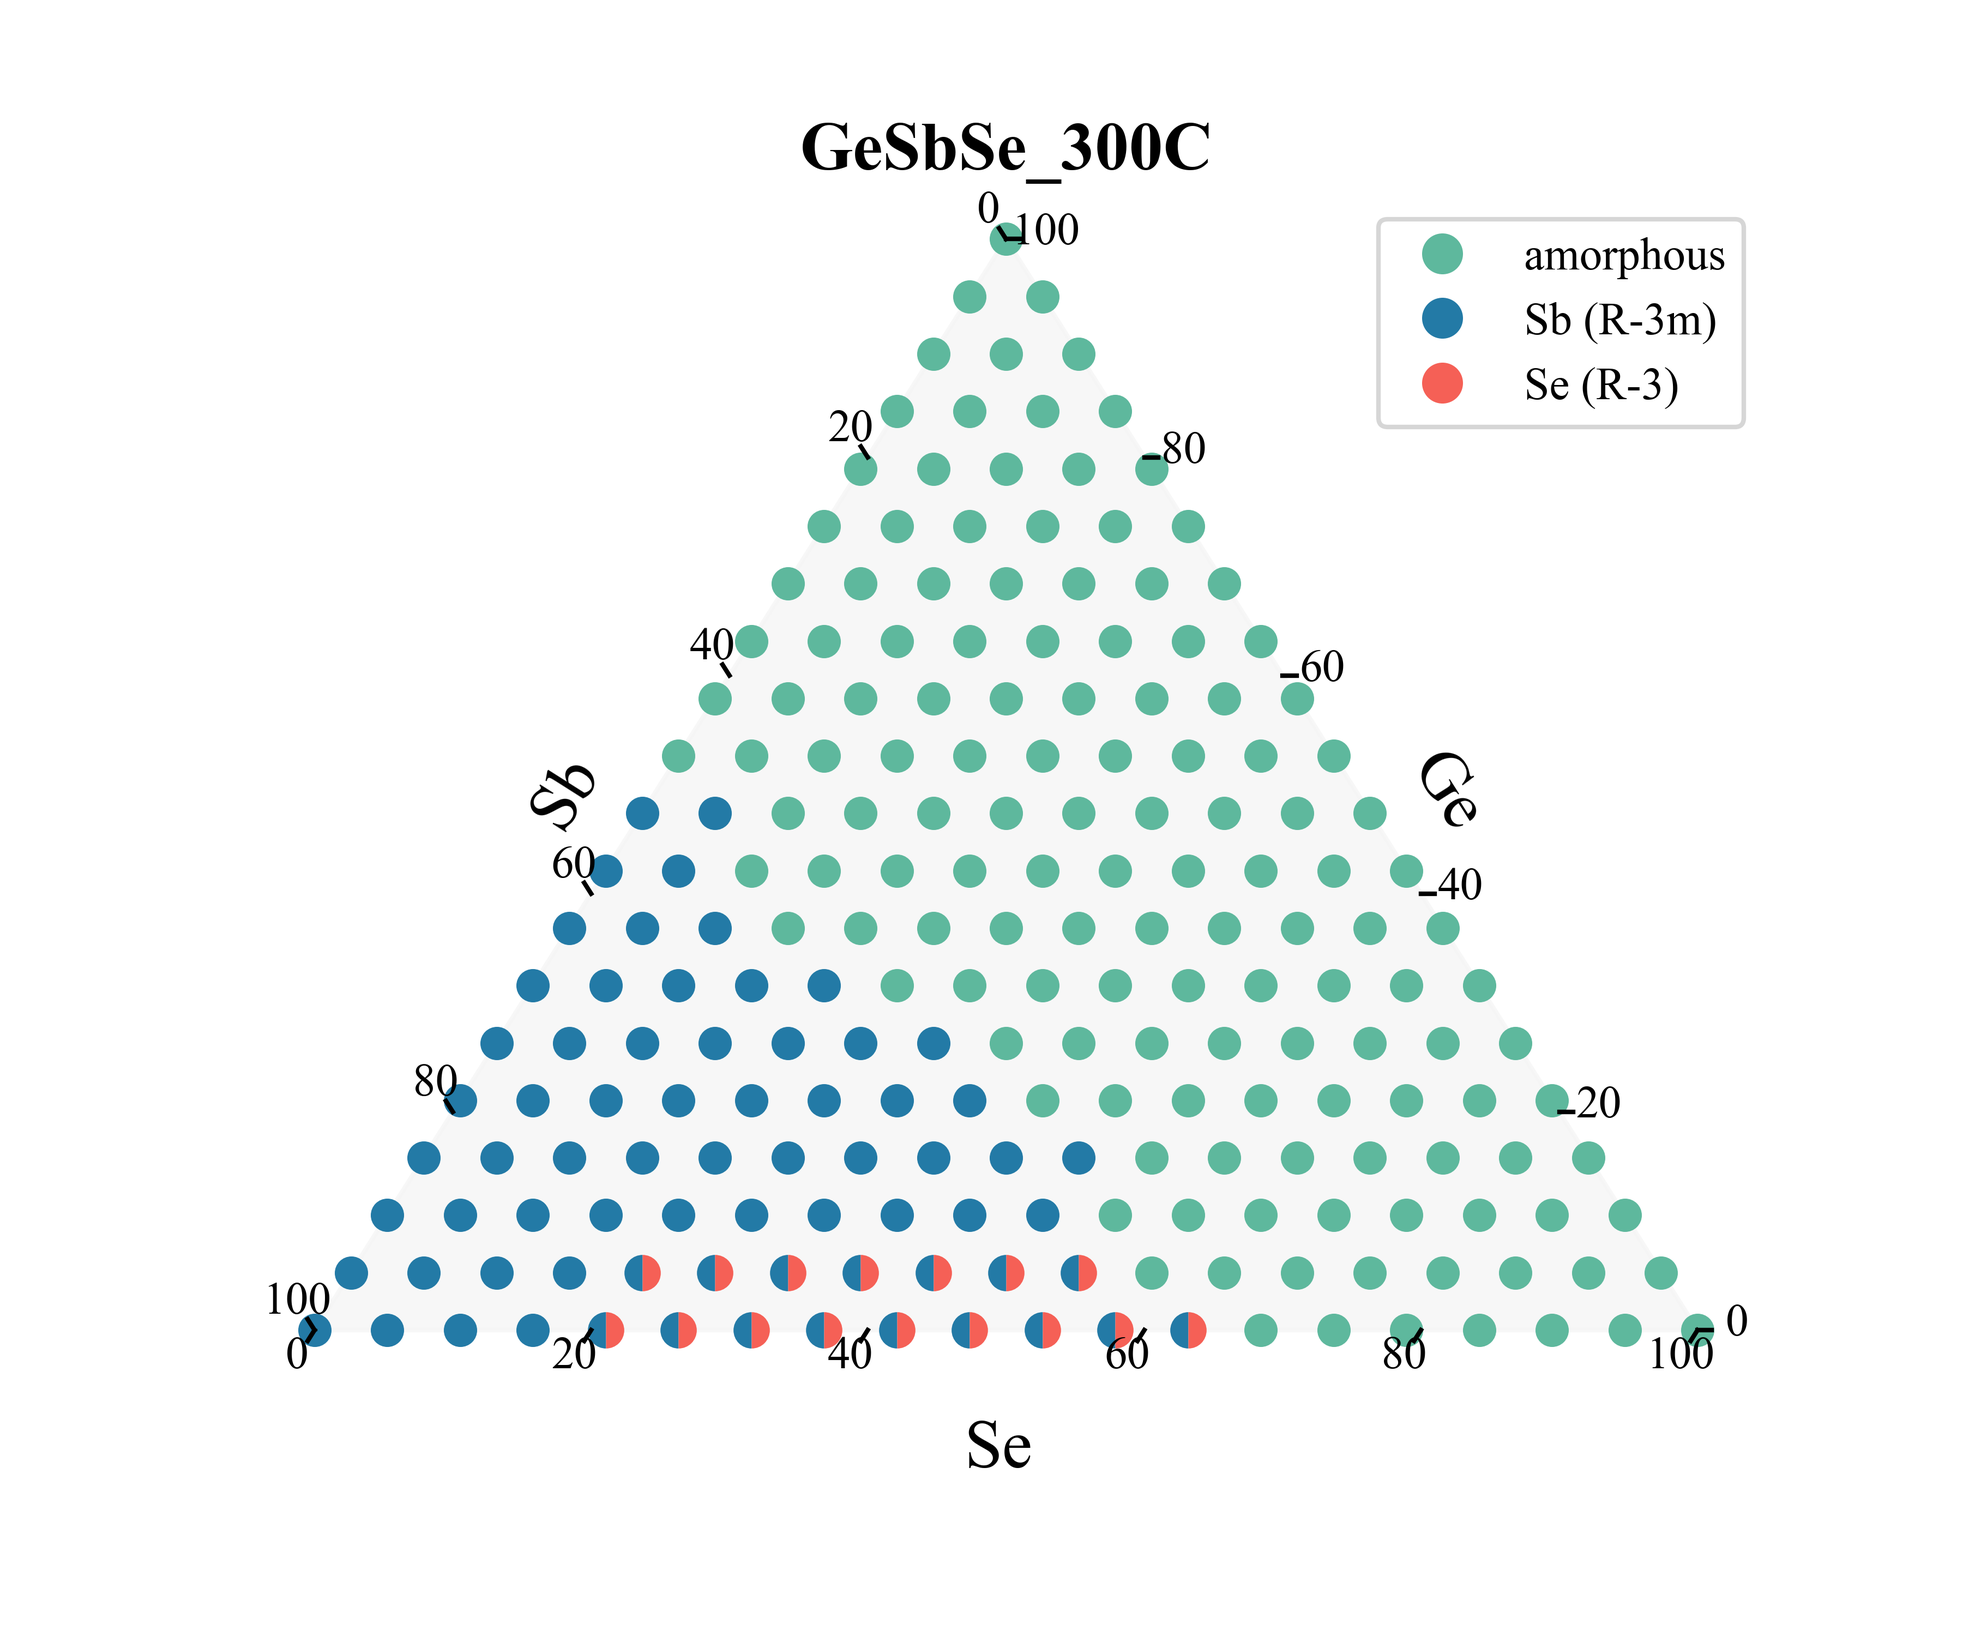
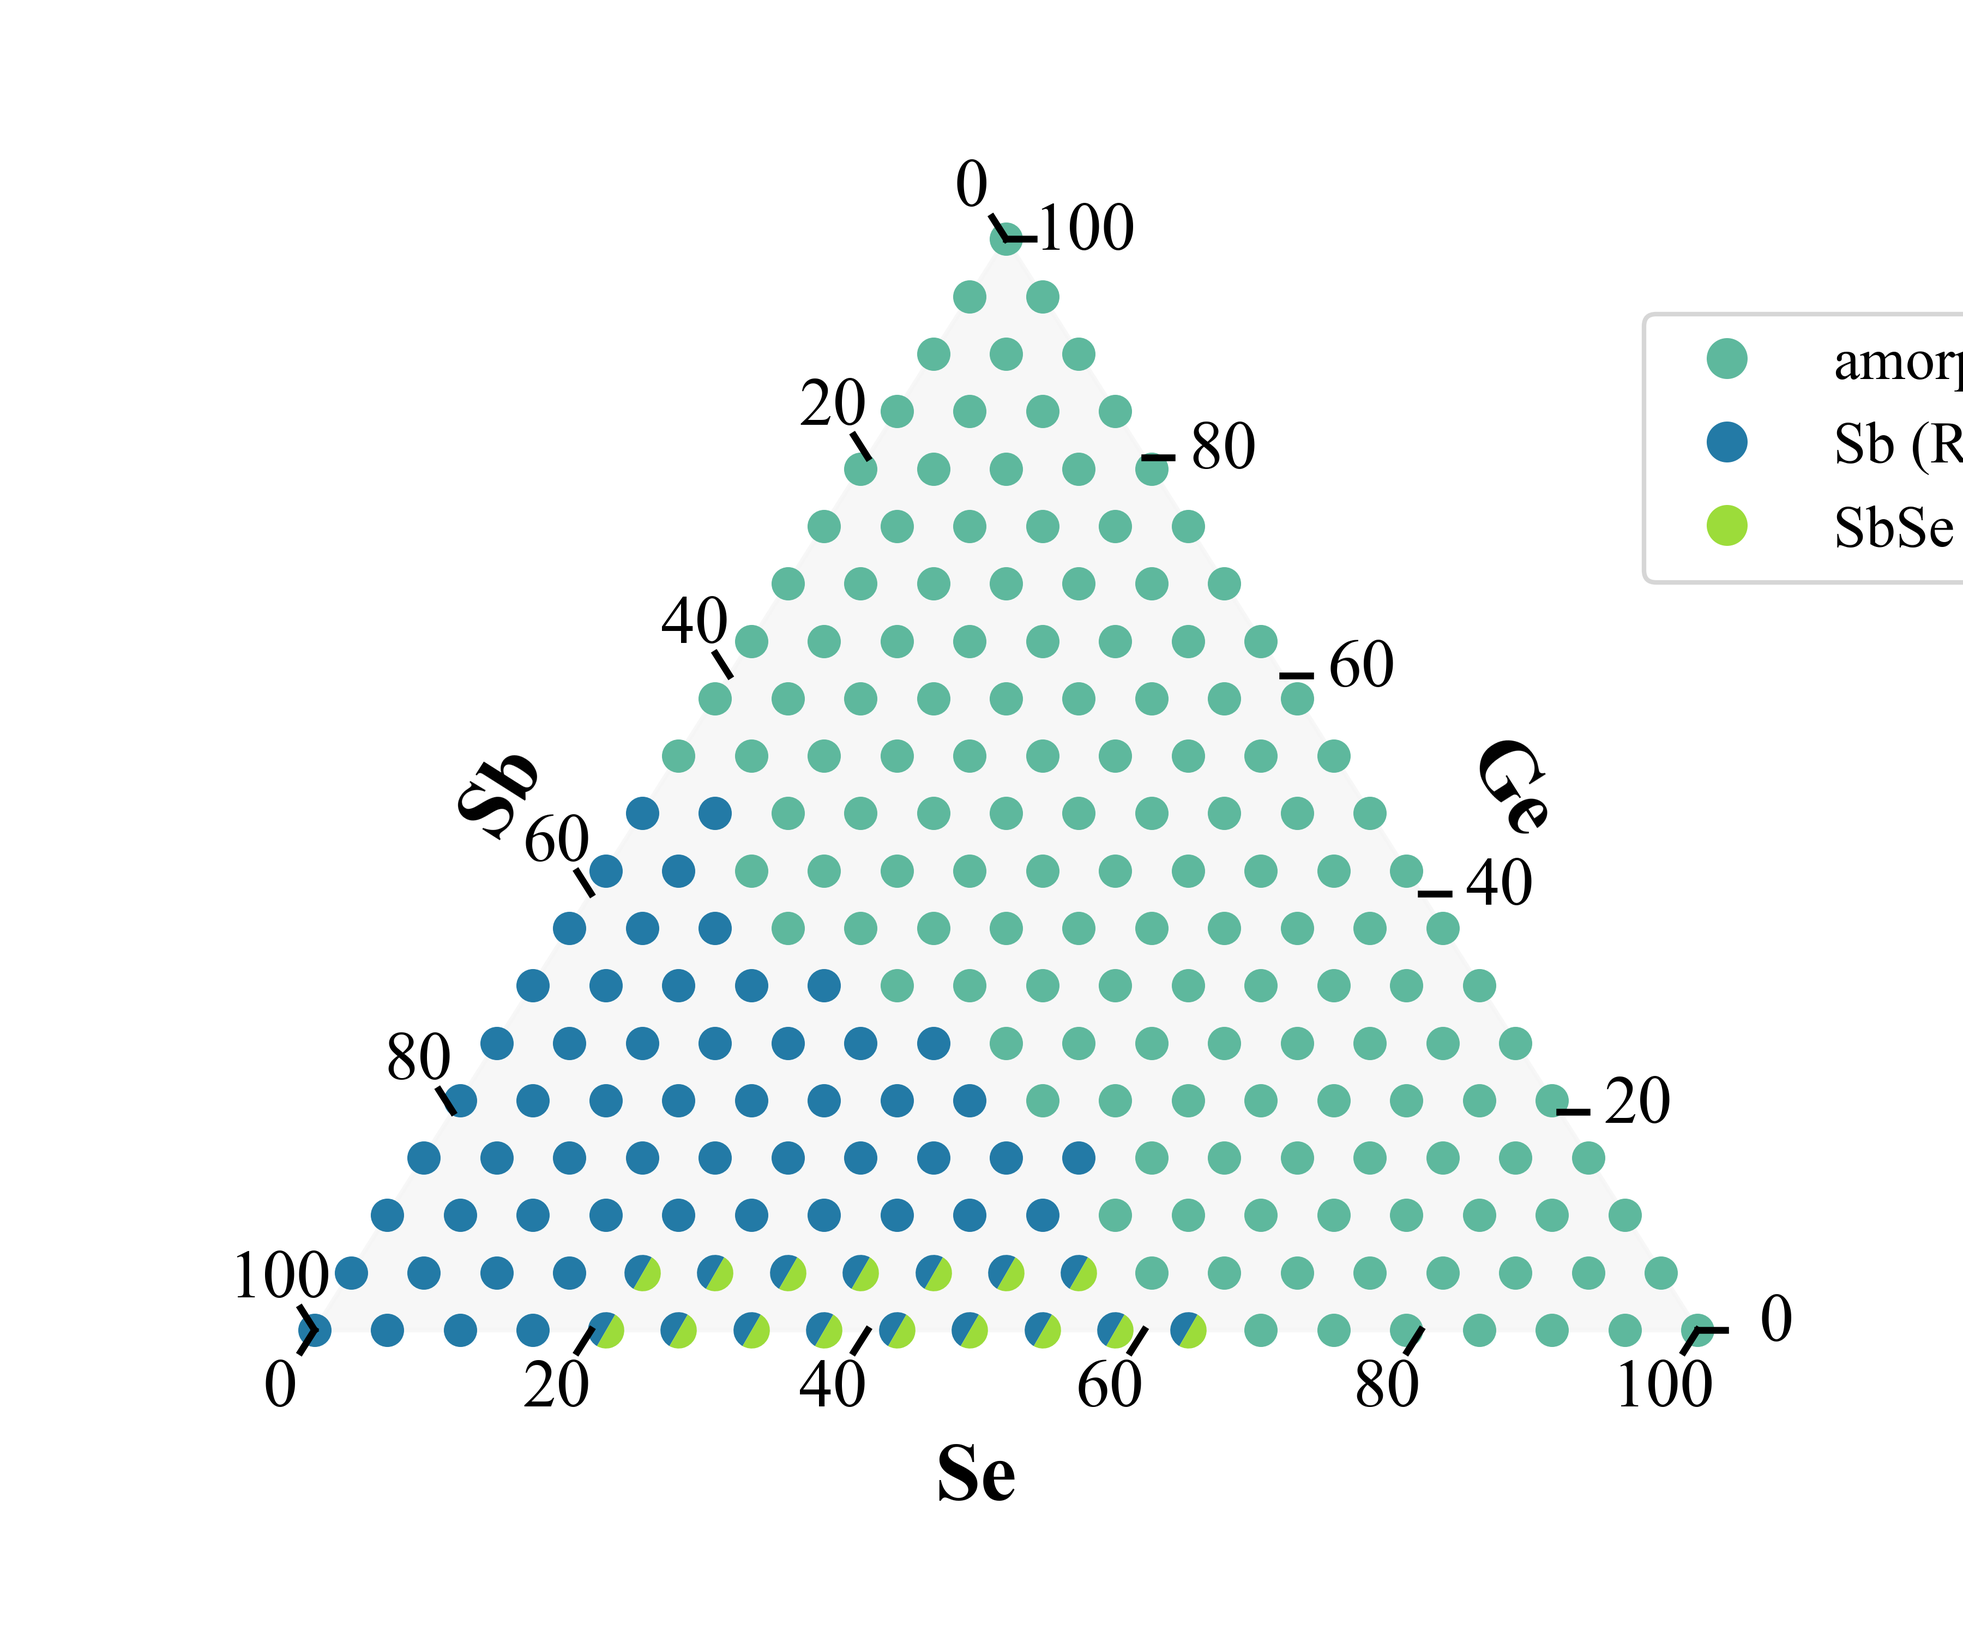
0726

diff --git a/pyxrd/plotter.py b/pyxrd/plotter.py
@@ -64,6 +64,15 @@ class XrdPlotter:
             # pylint: enable=no-member
         else:
             self.colormap = colormap
+        self.baseline_index = None
+
+    def set_amorphous_baseline(self, index: int):
+        """Set a baseline index for amorphous phase. If set, all data will be substracted by this baseline.
+
+        Args:
+            index (int): _description_
+        """
+        self.baseline_index = index
 
     def set_save_dir(self, save_dir: str) -> None:
         '''set_save_dir sets the save directory.
@@ -192,6 +201,10 @@ class XrdPlotter:
                 right_path = self.file_dir[1] + self.right_xy[index]
                 # Process data
                 original_data = XrdProcess([left_path, right_path])
+                if self.baseline_index is not None:
+                    amorphous_data = XrdProcess([self.file_dir[0] + self.left_xy[self.baseline_index],
+                                                 self.file_dir[1] + self.right_xy[self.baseline_index]])
+                    original_data.intensity -= amorphous_data.intensity
                 substracted_data = original_data.substract_baseline(lam=lam)
                 smoothed_data = substracted_data.smooth(window=window, factor=factor)
                 _, peaks_index, _ = smoothed_data.peaks(mask=mask, height=height, mask_height=mask_height)
@@ -217,6 +230,16 @@ class XrdPlotter:
                 right_path = self.file_dir[1] + self.right_xy[index]
                 # Process data
                 original_data = XrdProcess([left_path, right_path])
+                if self.baseline_index is not None:
+                    amorphous_data = XrdProcess([self.file_dir[0] + self.left_xy[self.baseline_index],
+                                                 self.file_dir[1] + self.right_xy[self.baseline_index]])
+                    if len(amorphous_data.intensity) > len(original_data.intensity):
+                        amorphous_data.intensity = amorphous_data.intensity[:len(original_data.intensity)]
+                        amorphous_data.two_theta = amorphous_data.two_theta[:len(original_data.two_theta)]
+                    else:
+                        original_data.intensity = original_data.intensity[:len(amorphous_data.intensity)]
+                        original_data.two_theta = original_data.two_theta[:len(amorphous_data.two_theta)]
+                    original_data.intensity -= amorphous_data.intensity
                 substracted_data = original_data.substract_baseline(lam=lam)
                 smoothed_data = substracted_data.smooth(window=window, factor=factor)
                 _, peaks_index, _ = smoothed_data.peaks(mask=mask, height=height, mask_height=mask_height)
@@ -499,6 +522,24 @@ def rotate_phase_index(phase_index: list[int]) -> list[int]:
     return rotated_phase_index
 
 
+def _get_rotate_mapping(width: int) -> list[int]:
+    """_summary_
+
+    Args:
+        width (int): _description_
+
+    Returns:
+        list[int]: _description_
+    """
+    mapping = []
+    for row in range(width):
+        current_width = width - row
+        # Extend the index of the right row into mapping
+        for column in range(current_width):
+            mapping.append(current_width - 1 + column * (width - 1 + width - column) // 2)
+    return mapping
+
+
 def _snake_to_serial(width: int, phase_index: list[int]) -> list[int]:
     '''snake_to_serial _summary_
 
@@ -520,11 +561,11 @@ def _snake_to_serial(width: int, phase_index: list[int]) -> list[int]:
     return serial_phase_index
 
 
-def _get_width(index: list[int]) -> int:
+def _get_width(index: list) -> int:
     '''_get_width return the width of the ternary diagram.
 
     Args:
-        index (list[int]): The index of the points.
+        index (list): The index of the points.
 
     Returns:
         int: The width of the diagram.
@@ -542,3 +583,105 @@ def _get_width(index: list[int]) -> int:
     if width * (width + 1) / 2 != length:
         raise ValueError('The index length is not a triangle number!')
     return width
+
+
+def plot_xrd_on_ternary_line(xrd_file_dir: list[str, str],
+                             start_point: tuple[float, float, float],
+                             end_point: tuple[float, float, float],
+                             detect_radius: float=-1,
+                             baseline_index: int=None,
+                             rotate_times: int=0,
+                             **kwargs) -> None:
+    """This function plots the xrd data on a line in ternary diagram.
+
+    Args:
+        xrd_file_dir (list[str, str]): _description_
+        start_point (tuple[float, float, float]): _description_
+        end_point (tuple[float, float, float]): _description_
+        detect_radius (float, optional): _description_. Defaults to -1.
+        baseline_index (int, optional): _description_. Defaults to None.
+    """
+    # Create a instance of XrdPlotter
+    plotter = XrdPlotter(xrd_file_dir)
+    if baseline_index is not None:
+        plotter.set_amorphous_baseline(baseline_index)
+    # Get the index of the xrd data points on the line
+    # If the distance of a point to the line is less than detect_radius, it is considered on the line
+    width = _get_width(plotter.left_xy)
+    point_index = _get_points_position(width)
+    # Decide detect radius based on the distance between two points
+    if detect_radius == -1:
+        detect_radius = 0.5 * 3 ** 0.5 * 100 / width
+    index_to_plot = []
+    for index, point in enumerate(point_index):
+        if _distance_to_line(point, start_point, end_point) < detect_radius:
+            index_to_plot.append(index)
+    # Sort the index_to_plot based on the distance to the start point
+    index_to_plot.sort(key=lambda x: _distance_between_points(point_index[x], start_point))
+    # Rotate the phase index if needed
+    mapping = _get_rotate_mapping(width)
+    for _ in range(rotate_times):
+        index_to_plot = [mapping[i] for i in index_to_plot]
+    # Plot the xrd data
+    plotter.plot_spectrum(index_to_plot=index_to_plot, plot_type='stack', **kwargs)
+
+
+def _ternary_to_cartesian(point: tuple[float, float, float]) -> tuple[float, float]:
+    '''This function converts the ternary coordinates to cartesian coordinates.
+
+    Args:
+        point (tuple[float, float, float]): _description_
+
+    Returns:
+        tuple[float, float]: _description_
+    '''
+    x = 0.5 * (2 * point[1] + point[2]) / (point[0] + point[1] + point[2]) * 100
+    y = 0.5 * 3 ** 0.5 * point[2] / (point[0] + point[1] + point[2]) * 100 
+    return (x, y)
+
+
+def _distance_to_line(point: tuple[float, float, float],
+                      start_point: tuple[float, float, float],
+                      end_point: tuple[float, float, float]) -> float:
+    """This function calculates the distance of a point to a line.
+
+    Args:
+        point (tuple[float, float, float]): _description_
+        start_point (tuple[float, float, float]): _description_
+        end_point (tuple[float, float, float]): _description_
+
+    Returns:
+        float: _description_
+    """
+    # Convert the ternary coordinates to cartesian coordinates
+    point_cartesian = _ternary_to_cartesian(point)
+    start_point_cartesian = _ternary_to_cartesian(start_point)
+    end_point_cartesian = _ternary_to_cartesian(end_point)
+    # Calculate the distance
+    distance = abs((end_point_cartesian[1] - start_point_cartesian[1]) * point_cartesian[0]
+                   - (end_point_cartesian[0] - start_point_cartesian[0]) * point_cartesian[1]
+                   + end_point_cartesian[0] * start_point_cartesian[1]
+                   - end_point_cartesian[1] * start_point_cartesian[0]) \
+        / ((end_point_cartesian[1] - start_point_cartesian[1]) ** 2
+           + (end_point_cartesian[0] - start_point_cartesian[0]) ** 2) ** 0.5
+    return distance
+
+
+def _distance_between_points(point1: tuple[float, float, float],
+                             point2: tuple[float, float, float]) -> float:
+    """This function calculates the distance between two points.
+
+    Args:
+        point1 (tuple[float, float, float]): _description_
+        point2 (tuple[float, float, float]): _description_
+
+    Returns:
+        float: _description_
+    """
+    # Convert the ternary coordinates to cartesian coordinates
+    point1_cartesian = _ternary_to_cartesian(point1)
+    point2_cartesian = _ternary_to_cartesian(point2)
+    # Calculate the distance
+    distance = ((point1_cartesian[0] - point2_cartesian[0]) ** 2
+                + (point1_cartesian[1] - point2_cartesian[1]) ** 2) ** 0.5
+    return distance

diff --git a/src/ternary_XRD.py b/src/ternary_XRD.py
@@ -22,7 +22,7 @@ import numpy as np
 import copy
 import src.funda_XRD as fb
 from functools import partial
-from pyxrd.plotter import plot_ternary_diagram, rotate_phase_index
+from pyxrd.plotter import plot_ternary_diagram, rotate_phase_index, plot_xrd_on_ternary_line
 plt.rc('font',family='Times New Roman')
 
 SMALL_SIZE = 14
@@ -36,9 +36,9 @@ plt.rc('ytick', labelsize=SMALL_SIZE)    # fontsize of the tick labels
 
 ##############################基础变量及路径修改##########################
 # 1. 导入CSV文件（非晶类型）
-top_directory = "data/SbSeGe_XRD/20240719_SbSeGe_100nm_300C_1h_new"
-csv_file = 'data/SbSeGe_XRD/20240719_SbSeGe_100nm_300C_1h_new/SbSeGe_300C.xlsx'
-title='SbSeGe_300C_new' #图片标题名和存储名
+top_directory = "data/GeSbSe_XRD/20240108_GeSbSn_100nm_150C_1h"
+csv_file = 'data/GeSbSe_XRD/20240108_GeSbSn_100nm_150C_1h/GeSbSn_150C.xlsx'
+title='SbSeGe_150C' #图片标题名和存储名
 
 df_peaks = pd.read_excel(csv_file)
 #df_peaks = pd.read_csv(csv_file)
@@ -605,7 +605,7 @@ if title == 'GeSbSe_300C':
     labels, ordered_custom_order = fb.exchange2(labels, former, ordered_custom_order, latter=latter, others='True')
     former = 4
     latter = 4
-    ordered_custom_order[latter] = 'Sb (R-3m) + Se (R-3)'
+    ordered_custom_order[latter] = 'Sb (R-3m) + SbSe (Pnma)'
     labels, ordered_custom_order = fb.exchange2(labels, former, ordered_custom_order, latter=latter, others='True')
     former = 3
     latter = 4
@@ -621,6 +621,9 @@ if title == 'GeSbSe_300C':
     labels, ordered_custom_order = fb.exchange2(labels, former, ordered_custom_order, latter=latter, others='True')
     point_Num = [49]
     latter = 0
+    labels, ordered_custom_order = fb.exchange3(labels, point_Num, ordered_custom_order, latter, others='True')
+    point_Num = [0, 1, 2, 3, 38, 37, 36, 35]
+    latter = 2
     labels, ordered_custom_order = fb.exchange3(labels, point_Num, ordered_custom_order, latter, others='True')
 
 if title == 'SbSeGe_300C':
@@ -690,7 +693,38 @@ if title == "SbSeGe_300C_new":
     former = 1
     latter = 0
     labels, ordered_custom_order = fb.exchange2(labels, former, ordered_custom_order, latter=latter, others='True')
-
+    former = 2
+    latter = 0
+    labels, ordered_custom_order = fb.exchange2(labels, former, ordered_custom_order, latter=latter, others='True')
+    former = 1
+    latter = 1
+    ordered_custom_order[latter] = 'SbSe (Pnma)'
+    labels, ordered_custom_order = fb.exchange2(labels, former, ordered_custom_order, latter=latter, others='True')
+    former = 2
+    latter = 2
+    ordered_custom_order[latter] = 'Sb (R-3m)'
+    labels, ordered_custom_order = fb.exchange2(labels, former, ordered_custom_order, latter=latter, others='True')
+    point_Num = [177]
+    latter = 3
+    ordered_custom_order[latter] = 'Sb (R-3m) + SbSe (Pnma)'
+    labels, ordered_custom_order = fb.exchange3(labels, point_Num, ordered_custom_order, latter, others='True')
+    point_Num = [74, 11, 20, 107, 109]
+    latter = 0
+    labels, ordered_custom_order = fb.exchange3(labels, point_Num, ordered_custom_order, latter, others='True')
+    point_Num = [133, 134, 153, 156, 151, 152, 127, 129, 130, 131, 105, 172, 157, 150, 136, 126, 137,
+                 138]
+    latter = 1
+    labels, ordered_custom_order = fb.exchange3(labels, point_Num, ordered_custom_order, latter, others='True')
+    point_Num = [155, 154, 158, 176, 209, 208, 207,
+                 206, 205, 204, 200, 201, 202, 199,
+                 198, 197, 196, 192, 191, 190, 189,
+                 188, 187, 186, 185, 174, 175, 173,
+                 171, 170, 159, 149]
+    latter = 3
+    labels, ordered_custom_order = fb.exchange3(labels, point_Num, ordered_custom_order, latter, others='True')
+    point_Num = [162, 163, 148, 147, 146, 145]
+    latter = 2
+    labels, ordered_custom_order = fb.exchange3(labels, point_Num, ordered_custom_order, latter, others='True')
 
 print('labels:', labels)
 print('ordered_custom_order:', ordered_custom_order)
@@ -708,8 +742,8 @@ heatmap,tax = fb.plot_tri(ax,element3=element3,labels = labels,title= title,terl
 #plt.savefig(save_path+title+'.png',dpi = 600) #保存图的命令
 '''
 plot_ternary_diagram(phase_type=ordered_custom_order,
-                     phase_index=labels,
-                     labels=['Ge', 'Sb', 'Sn'],
+                     phase_index=rotate_phase_index(labels),
+                     labels=['Se', 'Ge', 'Sb'],
                      title=title,
                      color={
                          'amorphous': '#5EB89D',
@@ -718,17 +752,17 @@ plot_ternary_diagram(phase_type=ordered_custom_order,
                          'SnSb (I4_1/amd)': '#E89C3D',
                          'Sn (I4_1/amd)': '#BD448E',
                          'GeSn (Fd-3m)': '#43624F',
-                         'Se (R-3)': '#F56056',
                          'GeSe (Pnma)': '#40DB59',
                          'Se (P3121)': '#DB7335',
-                         'SbSe (Pnma)': '#9CDC3A'
+                         'SbSe (Pnma)': '#F56056'
                      },
-                     if_show=True,
+                     if_show=False,
                      if_save=True,
-                     if_legend=False,
+                     if_legend=True,
                      rotation={
                          'GeSn (Fd-3m) + Sn (I4_1/amd)': 300,
-                         'Sb (R-3m) + SnSb (I4_1/amd)': 0
+                         'Sb (R-3m) + SnSb (I4_1/amd)': 0,
+                         'Sb (R-3m) + SbSe (Pnma)': -90
                      }
                      )
 '''
@@ -738,5 +772,12 @@ on_pick_with_params = partial(fb.on_pick, directory=directory, angle_center=angl
 fig.canvas.mpl_connect('pick_event', on_pick_with_params)
 plt.ioff()
 #fig.savefig('SbSnGe-150C.png',dpi=600)
-plt.show()
+'''
+plot_xrd_on_ternary_line(xrd_file_dir=directory,
+                         start_point=(0, 100, 0),
+                         end_point=(40, 0, 60),
+                         detect_radius=1.2,
+                         baseline_index=91,
+                         v_margin=0.4, plot_peaks=False, factor=0.1, window=11, lam=100)
+'''
 ##############################绘图及交互过程##########################

diff --git a/pyxrd/__init__.py b/pyxrd/__init__.py
@@ -5,5 +5,5 @@ Author: Junyuan Lu
 Contact: Lujunyuan@sjtu.edu.cn
 """
 from pyxrd.process import XrdProcess
-from pyxrd.plotter import XrdPlotter, plot_ternary_diagram
+from pyxrd.plotter import XrdPlotter, plot_ternary_diagram, plot_xrd_on_ternary_line
 from pyxrd.database import XrdDatabase
